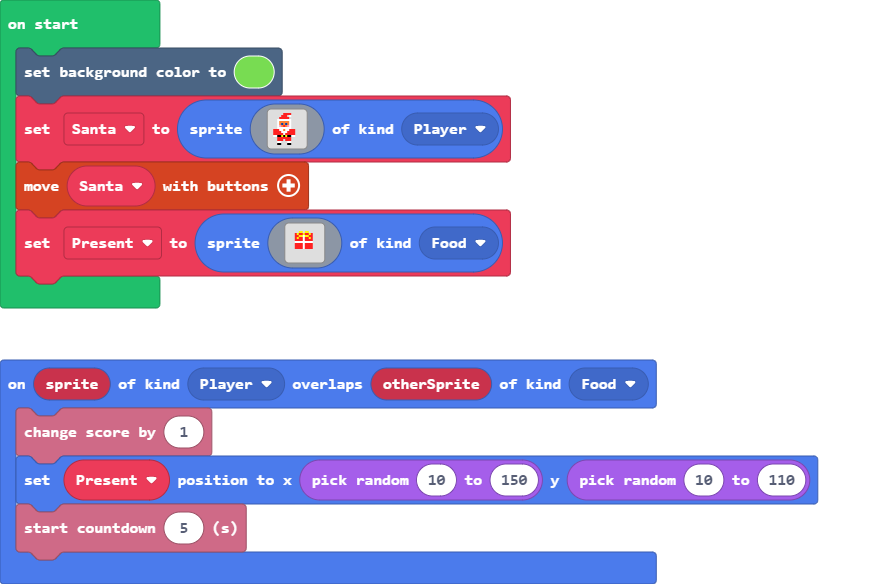
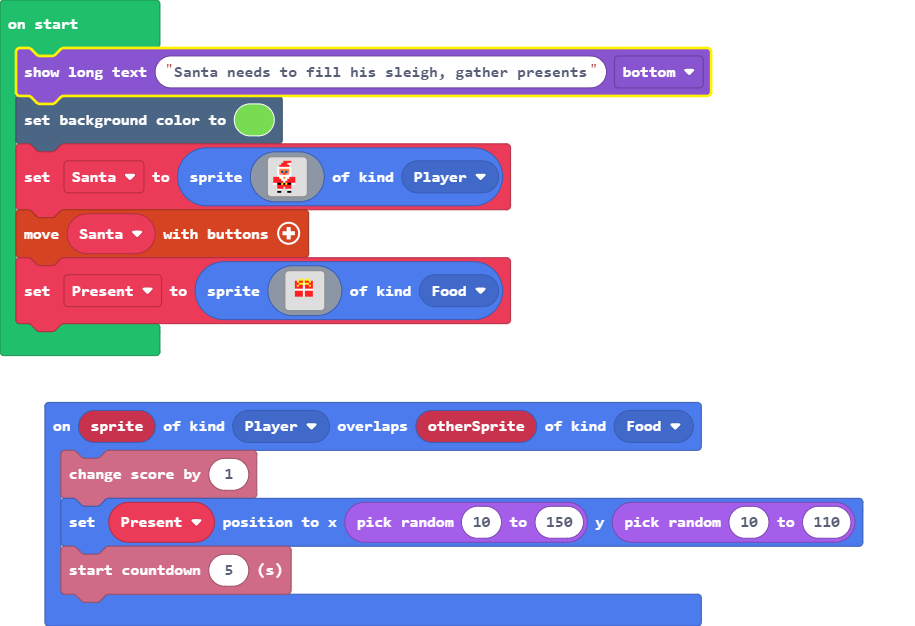
Update main.blocks, main.ts

diff --git a/main.ts b/main.ts
@@ -4,6 +4,7 @@ sprites.onOverlap(SpriteKind.Player, SpriteKind.Food, function (sprite, otherSpr
     info.startCountdown(5)
 })
 let Present: Sprite = null
+game.showLongText("Santa needs to fill his sleigh, gather presents", DialogLayout.Bottom)
 scene.setBackgroundColor(7)
 let Santa = sprites.create(img`
     . . . . . . 2 2 2 2 . . . . . . 
